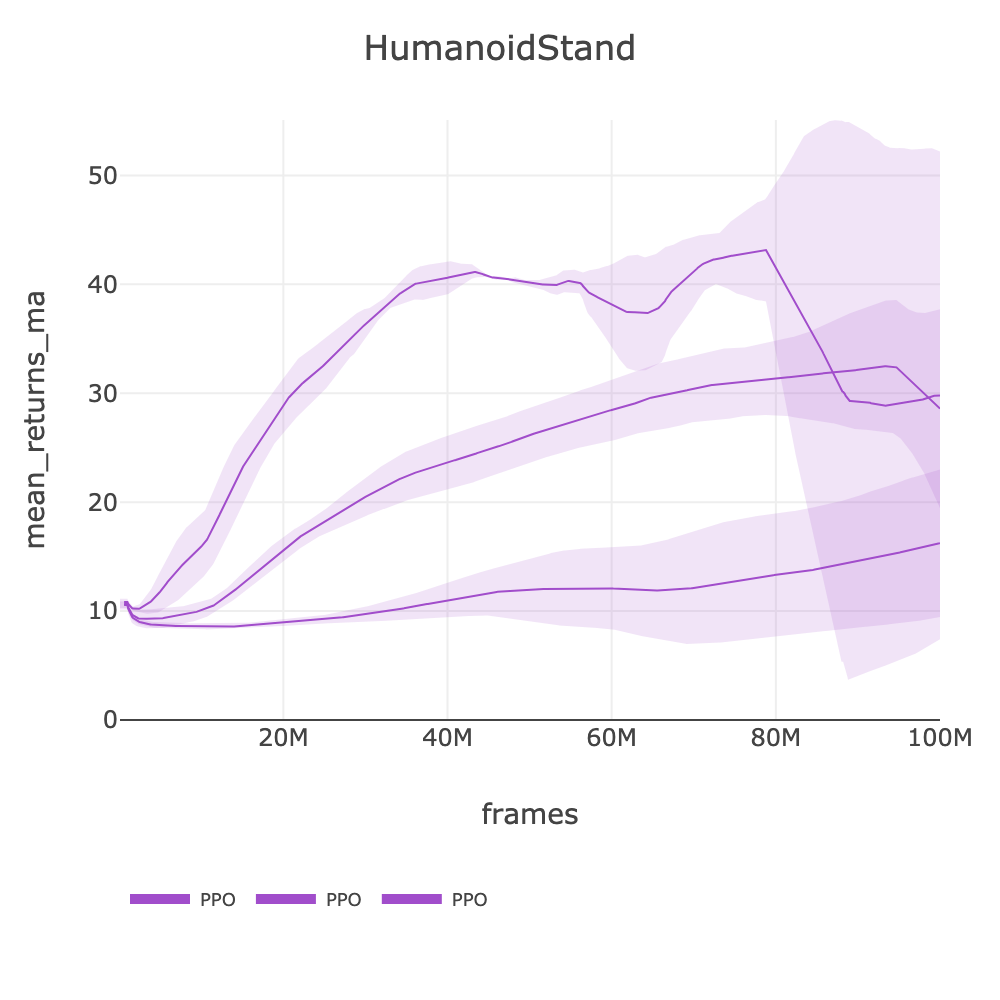
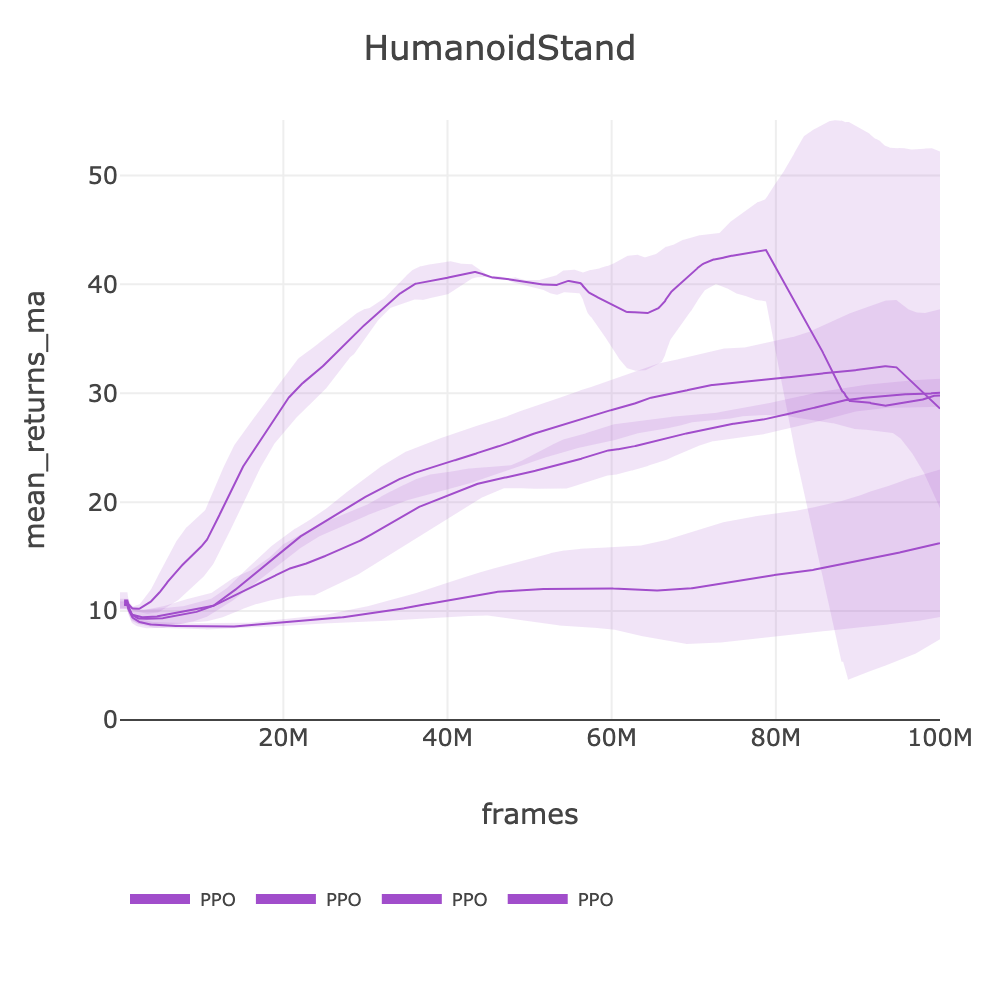
feat: intake PPO v4 HumanoidStand (30.04, ❌) — normalize_reward no improvement
v3=29.81 → v4=30.04: spec change had no effect. PPO plateaus ~30-43 on this task.

Changed region(s): [[0.155, 0.403, 0.806, 0.62], [0.496, 0.868, 0.558, 0.93]]

diff --git a/docs/BENCHMARKS.md b/docs/BENCHMARKS.md
@@ -933,10 +933,10 @@ source .env && uv run slm-lab run-remote --gpu \
 | playground/HopperStand | PPO | ✅ | 202.54 | ppo_playground_loco | [ppo_playground_loco_hopperstand_2026_03_11_213050](https://huggingface.co/datasets/SLM-Lab/benchmark-dev/tree/main/data/ppo_playground_loco_hopperstand_2026_03_11_213050) | ~70 | 21000 | 100M | 1h 19m |
 | | CrossQ | 🔄 | - | crossq_playground | - | | - | - | - |
 | | SAC | 🔄 | - | sac_playground | - | | - | - | - |
-| playground/HumanoidRun | PPO | ❌ | 8.95 | ppo_playground | [ppo_playground_humanoidrun_2026_03_11_210531](https://huggingface.co/datasets/SLM-Lab/benchmark-dev/tree/main/data/ppo_playground_humanoidrun_2026_03_11_210531) | 130 | 9316 | 100M | 2h 58m |
+| playground/HumanoidRun | PPO | ❌ | 7 | ppo_playground | [ppo_playground_humanoidrun_2026_03_11_210531](https://huggingface.co/datasets/SLM-Lab/benchmark-dev/tree/main/data/ppo_playground_humanoidrun_2026_03_11_210531) | 130 | 9300 | 100M | 2h 59m |
 | | CrossQ | 🔄 | - | crossq_playground_vhard | - | | - | - | - |
 | | SAC | 🔄 | - | sac_playground | - | | - | - | - |
-| playground/HumanoidStand | PPO | ❌ | 29.81 | ppo_playground_loco | [ppo_playground_loco_humanoidstand_2026_03_11_205103](https://huggingface.co/datasets/SLM-Lab/benchmark-dev/tree/main/data/ppo_playground_loco_humanoidstand_2026_03_11_205103) | 700 | 24210 | 100M | 1h 9m |
+| playground/HumanoidStand | PPO | ❌ | 30.04 | ppo_playground_loco | [ppo_playground_loco_humanoidstand_2026_03_11_223955](https://huggingface.co/datasets/SLM-Lab/benchmark-dev/tree/main/data/ppo_playground_loco_humanoidstand_2026_03_11_223955) | 700 | 14960 | 100M | 1h 55m |
 | | CrossQ | 🔄 | - | crossq_playground_vhard | - | | - | - | - |
 | | SAC | 🔄 | - | sac_playground | - | | - | - | - |
 | playground/HumanoidWalk | PPO | ❌ | 29.89 | ppo_playground | [ppo_playground_humanoidwalk_2026_03_11_205019](https://huggingface.co/datasets/SLM-Lab/benchmark-dev/tree/main/data/ppo_playground_humanoidwalk_2026_03_11_205019) | 500 | 9400 | 100M | 2h 57m |
